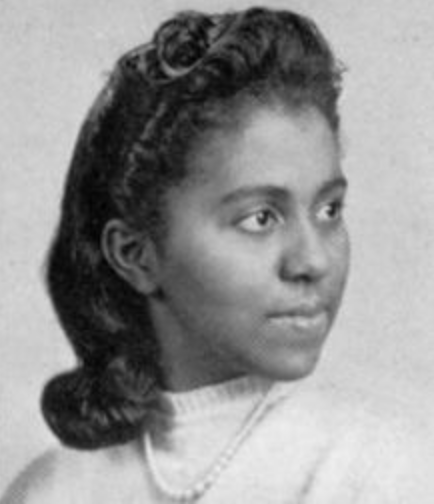
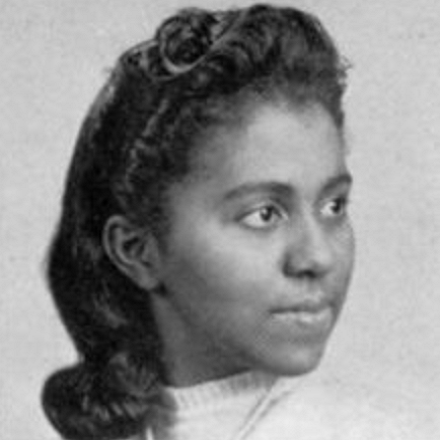
image paths included+ resizing images

Changed region(s): [[0.0, 0.0591, 0.8387, 1.0], [0.4194, 0.0, 0.6889, 0.0295], [0.659, 0.9455, 0.7189, 1.0]]

diff --git a/women_in_science/biology.html b/women_in_science/biology.html
@@ -113,7 +113,7 @@
 
       <div class="row w3-grayscale">
         <div class="col-4">
-          <center><img class="rounded-circle" src="http://famousfemalescientists.com/wp-content/uploads/2013/06/jane-goodall.jpg" alt="Jane Goodall" </center>
+          <center><img class="rounded-circle" style="width:120px" src="http://famousfemalescientists.com/wp-content/uploads/2013/06/jane-goodall.jpg" alt="Jane Goodall" </center>
           <div class="container">
             <h3>Jane Goodall</h3>
             <p>(1934-Present)</p>
@@ -126,7 +126,7 @@
         </div>
 
         <div class="col-4">
-          <center><img class="rounded-circle" src="/Users/laurawhelan/Desktop/new coding/STEMinists-v2/women_in_science/images/MarieDaly.png" alt="Marie Maynard Daly" </center>
+          <center><img class="rounded-circle" style="width:120px" src="./images/MarieDaly.png" alt="Marie Maynard Daly" </center>
           <div class="container">
             <h3>Marie Maynard Daly</h3>
             <p>(1921-2003)</p>
@@ -139,7 +139,7 @@
         </div>
 
         <div class="col-4">
-          <center><img class="rounded-circle" src="http://famousfemalescientists.com/wp-content/uploads/2013/06/rita-levi-montalcini.jpg" alt="Rita Levi-Montalcini" </center>
+          <center><img class="rounded-circle" style="width:120px" src="http://famousfemalescientists.com/wp-content/uploads/2013/06/rita-levi-montalcini.jpg" alt="Rita Levi-Montalcini" </center>
           <div class="container">
             <h3>Rita Levi-Montalcini </h3>
             <p>(1909-2012)</p>
@@ -152,7 +152,7 @@
         </div>
 
         <div class="col-4">
-          <center><img class="rounded-circle" src="/Users/laurawhelan/Desktop/new coding/STEMinists-v2/women_in_science/images/Flossie Wong-Staal.png" alt="Flossie Wong-Staal" </center>
+          <center><img class="rounded-circle" style="width:120px" src="./images/Flossie Wong-Staal.png" alt="Flossie Wong-Staal" </center>
           <div class="container">
             <h3>Flossie-Wong Staal</h3>
             <p>(1947-present)</p>
@@ -165,7 +165,7 @@
         </div>
 
         <div class="col-4 margin-bottom">
-          <center><img class="rounded-circle" src="/Users/laurawhelan/Desktop/new coding/STEMinists-v2/women_in_science/images/bmcclintock.png" alt="Barbara McClintock" </center>
+          <center><img class="rounded-circle" style="width:120px" src="./images/bmcclintock.png" alt="Barbara McClintock" </center>
           <div class="container">
             <h3>Barbara McClintock</h3>
             <p>(1902-1992)</p>
@@ -177,7 +177,7 @@
         </div>
 
         <div class="col-4 margin-bottom">
-          <center><img class="rounded-circle" src="/Users/laurawhelan/Desktop/new coding/STEMinists-v2/women_in_science/images/Elizabethblackburn.png" alt="Elizbeth Blackburn" </center>
+          <center><img class="rounded-circle" style="width:120px" src="./images/Elizabethblackburn.png" alt="Elizbeth Blackburn" </center>
           <div class="container">
             <h3>Elizabeth Blackburn</h3>
             <p>(1948-Present)</p>
